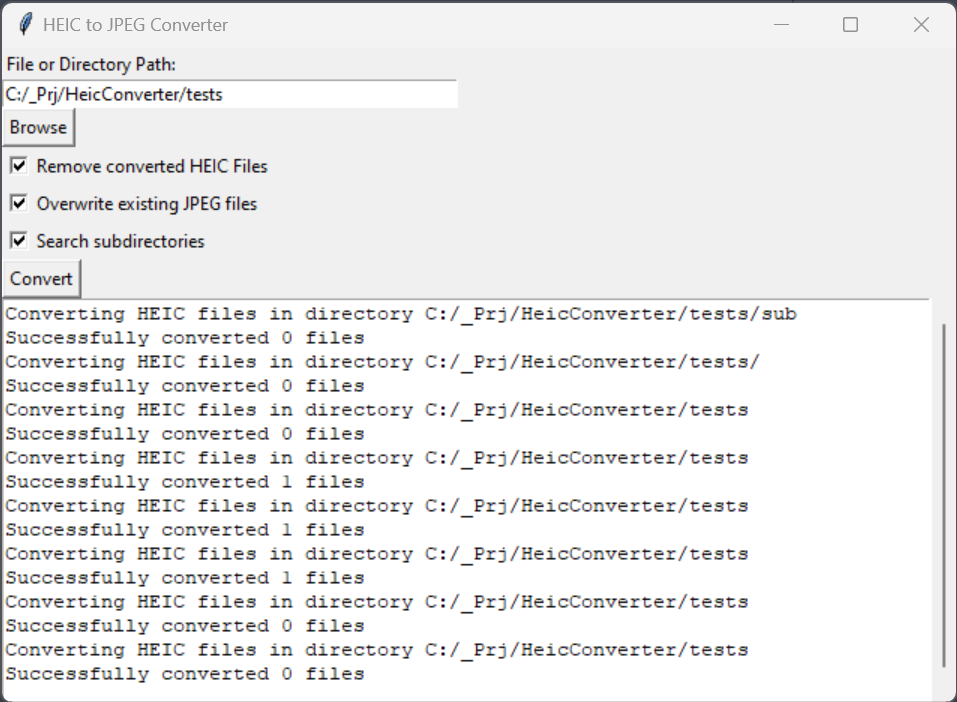
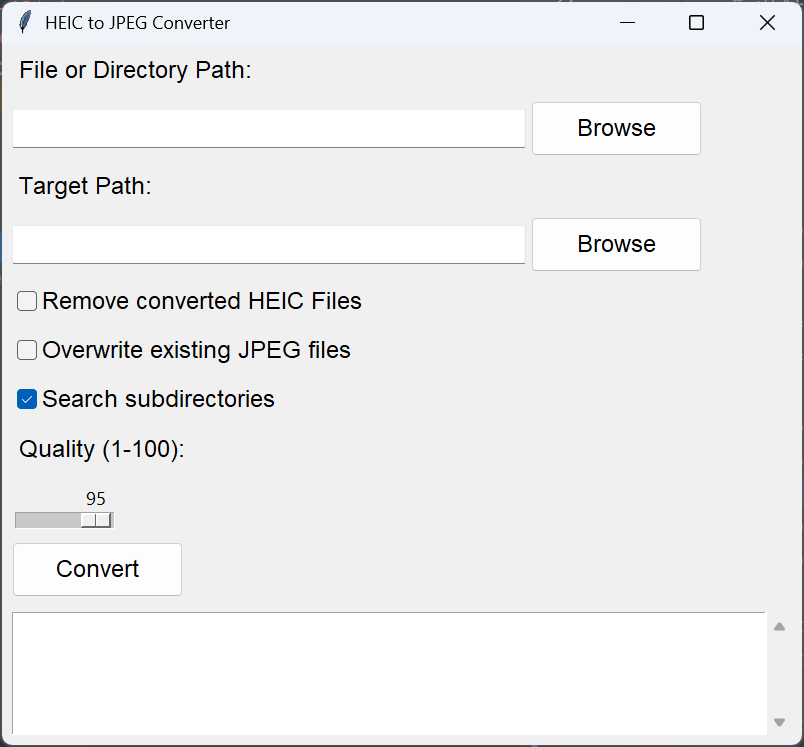
Added a option to define a different target path

diff --git a/heicConverterGui.py b/heicConverterGui.py
@@ -17,7 +17,7 @@ class HEICConverterGUI:
     def __init__(self, master):
         self.master = master
         master.title("HEIC to JPEG Converter")
-        master.geometry("600x500")  # Set a default size for the window
+        master.geometry("800x700")  # Set a default size for the window
 
         # Style configuration
         style = ttk.Style()
@@ -29,11 +29,26 @@ class HEICConverterGUI:
         self.path_label = ttk.Label(master, text="File or Directory Path:")
         self.path_label.pack(anchor='w', padx=10, pady=5)
 
-        self.path_entry = ttk.Entry(master, width=50)
-        self.path_entry.pack(anchor='w', padx=10, pady=5)
+        path_frame = ttk.Frame(master)
+        path_frame.pack(anchor='w', padx=10, pady=5, fill='x')
 
-        self.browse_button = ttk.Button(master, text="Browse", command=self.browse)
-        self.browse_button.pack(anchor='w', padx=10, pady=5)
+        self.path_entry = ttk.Entry(path_frame, width=50)
+        self.path_entry.pack(side='left', padx=(0, 5))
+
+        self.browse_button = ttk.Button(path_frame, text="Browse", command=self.browse)
+        self.browse_button.pack(side='left')
+
+        self.target_label = ttk.Label(master, text="Target Path:")
+        self.target_label.pack(anchor='w', padx=10, pady=5)
+
+        target_frame = ttk.Frame(master)
+        target_frame.pack(anchor='w', padx=10, pady=5, fill='x')
+
+        self.target_entry = ttk.Entry(target_frame, width=50)
+        self.target_entry.pack(side='left', padx=(0, 5))
+
+        self.browse_button = ttk.Button(target_frame, text="Browse", command=self.browse_target)
+        self.browse_button.pack(side='left')
 
         self.remove_var = tk.BooleanVar()
         self.remove_check = ttk.Checkbutton(master, text="Remove converted HEIC Files", variable=self.remove_var)
@@ -67,22 +82,40 @@ class HEICConverterGUI:
         self.path_entry.delete(0, tk.END)
         self.path_entry.insert(0, file_path)
 
+        if self.target_entry.get() == "":
+            self.target_entry.delete(0, tk.END)
+            self.target_entry.insert(0, file_path)
+
+    def browse_target(self):
+        file_path = filedialog.askdirectory()
+        self.target_entry.delete(0, tk.END)
+        self.target_entry.insert(0, file_path)
+
     def convert(self):
         path = self.path_entry.get()
+        target = self.target_entry.get()
         remove = self.remove_var.get()
         overwrite = self.overwrite_var.get()
         recursive = self.recursive_var.get()
+        quality = int(self.quality_entry.get())
+
+        # Ensure quality is within the range 1-100
+        if quality > 100:
+            quality = 100
+        elif quality < 1:
+            quality = 1
 
         output_text = ""
 
         if os.path.isdir(path):
-            output_text += f'Converting HEIC files in directory {path}\n'
-            converted = convert_heic_to_jpeg(path, recursive, overwrite, remove, self.quality_scale.get())
+            output_text += f'Converting HEIC files in directory {path} to {target}\n'
+            converted = convert_heic_to_jpeg(path, recursive, overwrite, remove, quality, target)
             output_text += f'Successfully converted {len(converted)} files\n'
 
         elif os.path.isfile(path):
-            output_text += f'Converting HEIC file {path}\n'
-            convert_heic_file(path, os.path.splitext(path)[0] + ".jpg", overwrite, remove, self.quality_scale.get())
+            t_file = os.path.join(target, os.path.basename(path).split('.')[0]) + ".jpg"
+            output_text += f'Converting HEIC file {path} to {t_file}\n'
+            convert_heic_file(path, t_file, overwrite, remove, quality)
             output_text += 'Successfully converted file\n'
 
         else:
@@ -90,6 +123,7 @@ class HEICConverterGUI:
 
         self.console_output.insert(tk.END, output_text)
         self.console_output.see(tk.END)
+
 
 
 def main():

diff --git a/heicConverter.py b/heicConverter.py
@@ -16,7 +16,10 @@ def parse_args():
     parser.add_argument('-o', '--overwrite', help='Overwrite existing JPEG files', action='store_true')
     parser.add_argument('--not-recursive', help='Do not search subdirectories', action='store_true')
     parser.add_argument('--skip-prompt', help='Skip the prompt at the end', action='store_true')
-    parser.add_argument('-q', '--quality', help='Quality of the converted HEIC Files', type=int, default=95)
+    parser.add_argument('-q', '--quality', help='Quality of the JPG Files, default: 95', type=int,
+                        default=95)
+    parser.add_argument('-t', '--target',
+                        help='The target directory for the converted files if not given, the source directory is used')
 
     return parser.parse_args()
 
@@ -30,14 +33,28 @@ if __name__ == '__main__':
 
     path = os.path.abspath(path)
 
+    if args.target:
+        target = args.target
+    elif os.path.isdir(path):
+        target = path
+    else:
+        target = os.path.dirname(path)
+
     if os.path.isdir(path):
-        print(f'Converting HEIC files in directory {path}')
-        converted = convert_heic_to_jpeg(path, not args.not_recursive, args.overwrite, args.remove, args.quality)
+        print(f'Converting HEIC files in directory {path} to {target}')
+        converted = convert_heic_to_jpeg(path,
+                                         not args.not_recursive,
+                                         args.overwrite,
+                                         args.remove,
+                                         args.quality,
+                                         target)
+
         print(f'\nSuccessfully converted {len(converted)} files')
 
     elif os.path.isfile(path):
-        print(f'Converting HEIC file {path}')
-        convert_heic_file(path, os.path.splitext(path)[0] + ".jpg", args.overwrite, args.remove, args.quality)
+        t_file = os.path.join(target, os.path.basename(path).split('.')[0]) + ".jpg"
+        print(f'Converting HEIC file {path} to {t_file}')
+        convert_heic_file(path, t_file, args.overwrite, args.remove, args.quality)
         print(f'\nSuccessfully converted file')
 
     else:

diff --git a/converter.py b/converter.py
@@ -51,6 +51,12 @@ def convert_heic_file(source_file, target_file, overwrite, remove, quality):
     if quality < 1:
         quality = 1
 
+    # Check if target folder exists
+    target_folder = os.path.dirname(target_file)
+    if not os.path.exists(target_folder):
+        print(f'Creating folder {target_folder}')
+        os.makedirs(target_folder)
+
     if os.path.exists(target_file) and not overwrite:
         print(f'File {target_file} already exists, skip')
         return False
@@ -92,7 +98,7 @@ def convert_heic_file(source_file, target_file, overwrite, remove, quality):
     return False
 
 
-def convert_heic_to_jpeg(dir_of_interest, recursive, overwrite, remove, quality):
+def convert_heic_to_jpeg(dir_of_interest, recursive, overwrite, remove, quality, target):
     """
     Convert all heic files in the directory of interest to jpeg
 
@@ -101,6 +107,7 @@ def convert_heic_to_jpeg(dir_of_interest, recursive, overwrite, remove, quality)
     :param overwrite: overwrite existing jpeg files
     :param remove: remove converted heic files
     :param quality: quality of jpeg files
+    :param target: the target directory
 
     :return: a list of successfully converted files
     """
@@ -115,7 +122,7 @@ def convert_heic_to_jpeg(dir_of_interest, recursive, overwrite, remove, quality)
     for root, filename in heic_files:
 
         target_filename = os.path.splitext(filename)[0] + ".jpg"
-        target_file = os.path.join(root, target_filename)
+        target_file = os.path.join(target, target_filename)
         source_file = os.path.join(root, filename)
         if convert_heic_file(source_file, target_file, overwrite, remove, quality):
             success_files.append(target_filename)

diff --git a/Readme.md b/Readme.md
@@ -1,3 +1,5 @@
+[![Donate](https://img.shields.io/badge/Donate-PayPal-green.svg)](https://www.paypal.com/cgi-bin/webscr?cmd=_s-xclick&hosted_button_id=JBK73YUVW7MGW&source=url)
+
 # HeicConverter
 
 ## Introduction
@@ -27,19 +29,23 @@ or not working for me, I decided to make a simple python script to help convert 
 Start the script (or exe) from command line for additional options:
 
 ~~~~
-heicConverter.exe [-h] [-r] [-o] [--not-recursive] [--skip-prompt] path
+heicConverter.exe [-h] [-r] [-o] [--not-recursive] [--skip-prompt] [-q QUALITY] [-t TARGET] [path]
 
 Convert HEIC files to JPEG
 
 positional arguments:
-  path             the path to the file or directory to convert
+  path                  the path to the file or directory to convert
 
 options:
-  -h, --help       show this help message and exit
-  -r, --remove     Remove converted HEIC Files
-  -o, --overwrite  Overwrite existing JPEG files
-  --not-recursive  Do not search subdirectories
-  --skip-prompt    Skip the prompt at the end
+  -h, --help            show this help message and exit
+  -r, --remove          Remove converted HEIC Files
+  -o, --overwrite       Overwrite existing JPEG files
+  --not-recursive       Do not search subdirectories
+  --skip-prompt         Skip the prompt at the end
+  -q QUALITY, --quality QUALITY
+                        Quality of the JPG Files, default: 95
+  -t TARGET, --target TARGET
+                        The target directory for the converted files if not given, the source directory is used
 ~~~~
 
 ## GUI
@@ -84,11 +90,13 @@ python -m PyInstaller --onefile --windowed heicConverterGui.py
 
 ## Remarks
 
-This software was mainly created by people at StackOverflow:
+The basic software was mainly created by people at StackOverflow:
 https://stackoverflow.com/questions/54395735/how-to-work-with-heic-image-file-types-in-python
 
 ## Example
 
 ![Example](doc/example.png)
 
-[![Donate](https://img.shields.io/badge/Donate-PayPal-green.svg)](https://www.paypal.com/cgi-bin/webscr?cmd=_s-xclick&hosted_button_id=JBK73YUVW7MGW&source=url)
+## Contribution
+
+Thanks to all contributors. Feel free to fork and improve the code.
